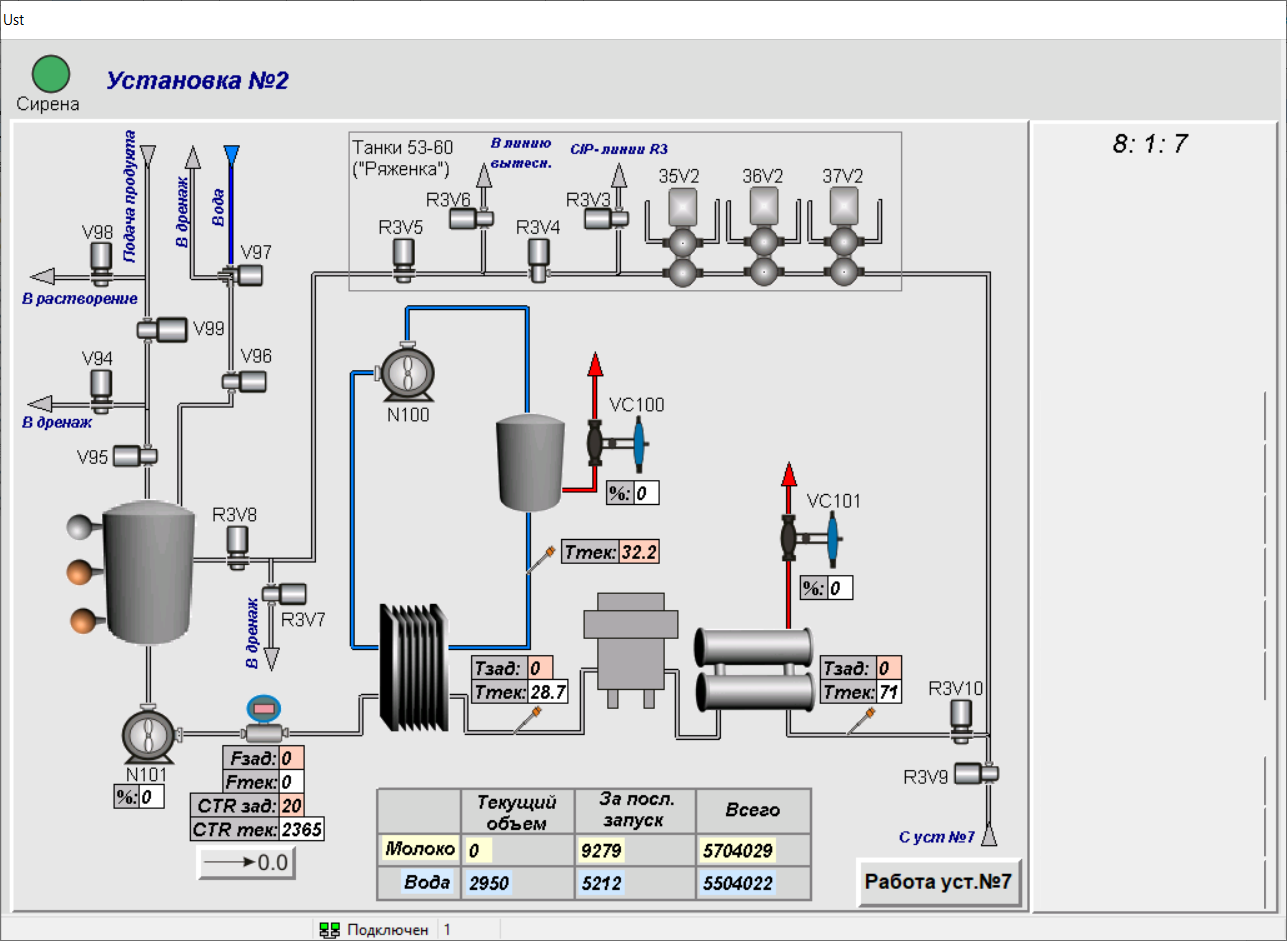
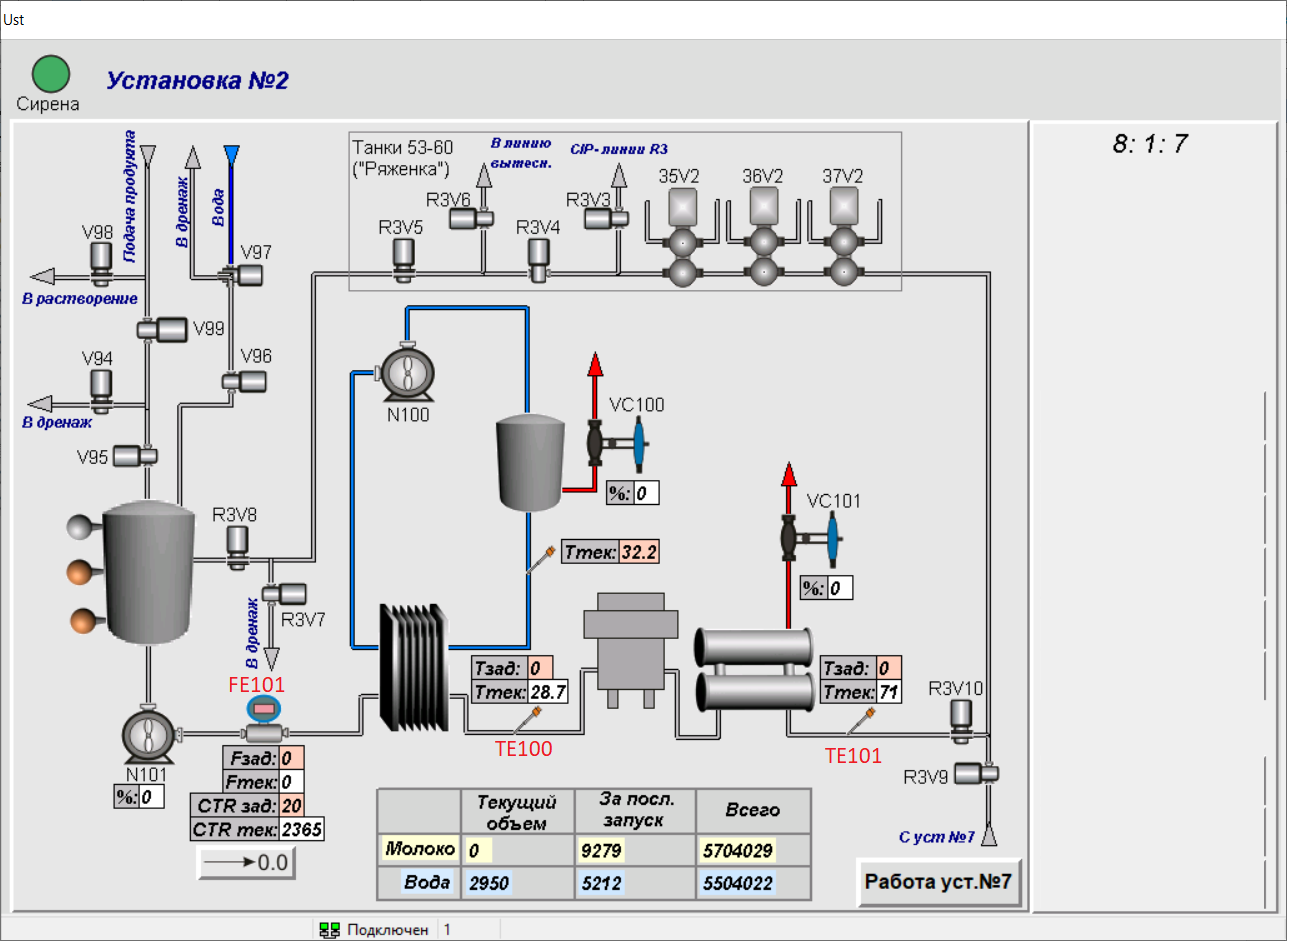
Add extra description

diff --git a/data/README.MD b/data/README.MD
@@ -9,10 +9,10 @@
 
 | cid    | Описание             | Размерность  |
 | -------|----------------------| -----:|
-|1| N101 (мощность) | 0-100 (0 - минимальная мощность, 100 - максимальная мощность) |
-|2| FE101| м3/час |
-|3| TE100| С |
-|4| VC100 (открытие) | 0-100 (0 - полностью закрыт, 100 - полностью открыт) |
-|5| TE101| С |
-|6| VC101 (открытие) | 0-100 (0 - полностью закрыт, 100 - полностью открыт) |
+|1| N101 (мощность), циркуляционный насос | 0-100 (0 - минимальная мощность, 100 - максимальная мощность) |
+|2| FE101, расход | м3/час |
+|3| TE100, температура гомогенизации | С |
+|4| VC100 (открытие), паровой клапан | 0-100 (0 - полностью закрыт, 100 - полностью открыт) |
+|5| TE101, температура пастеризации| С |
+|6| VC101 (открытие), паровой клапан | 0-100 (0 - полностью закрыт, 100 - полностью открыт) |
 
